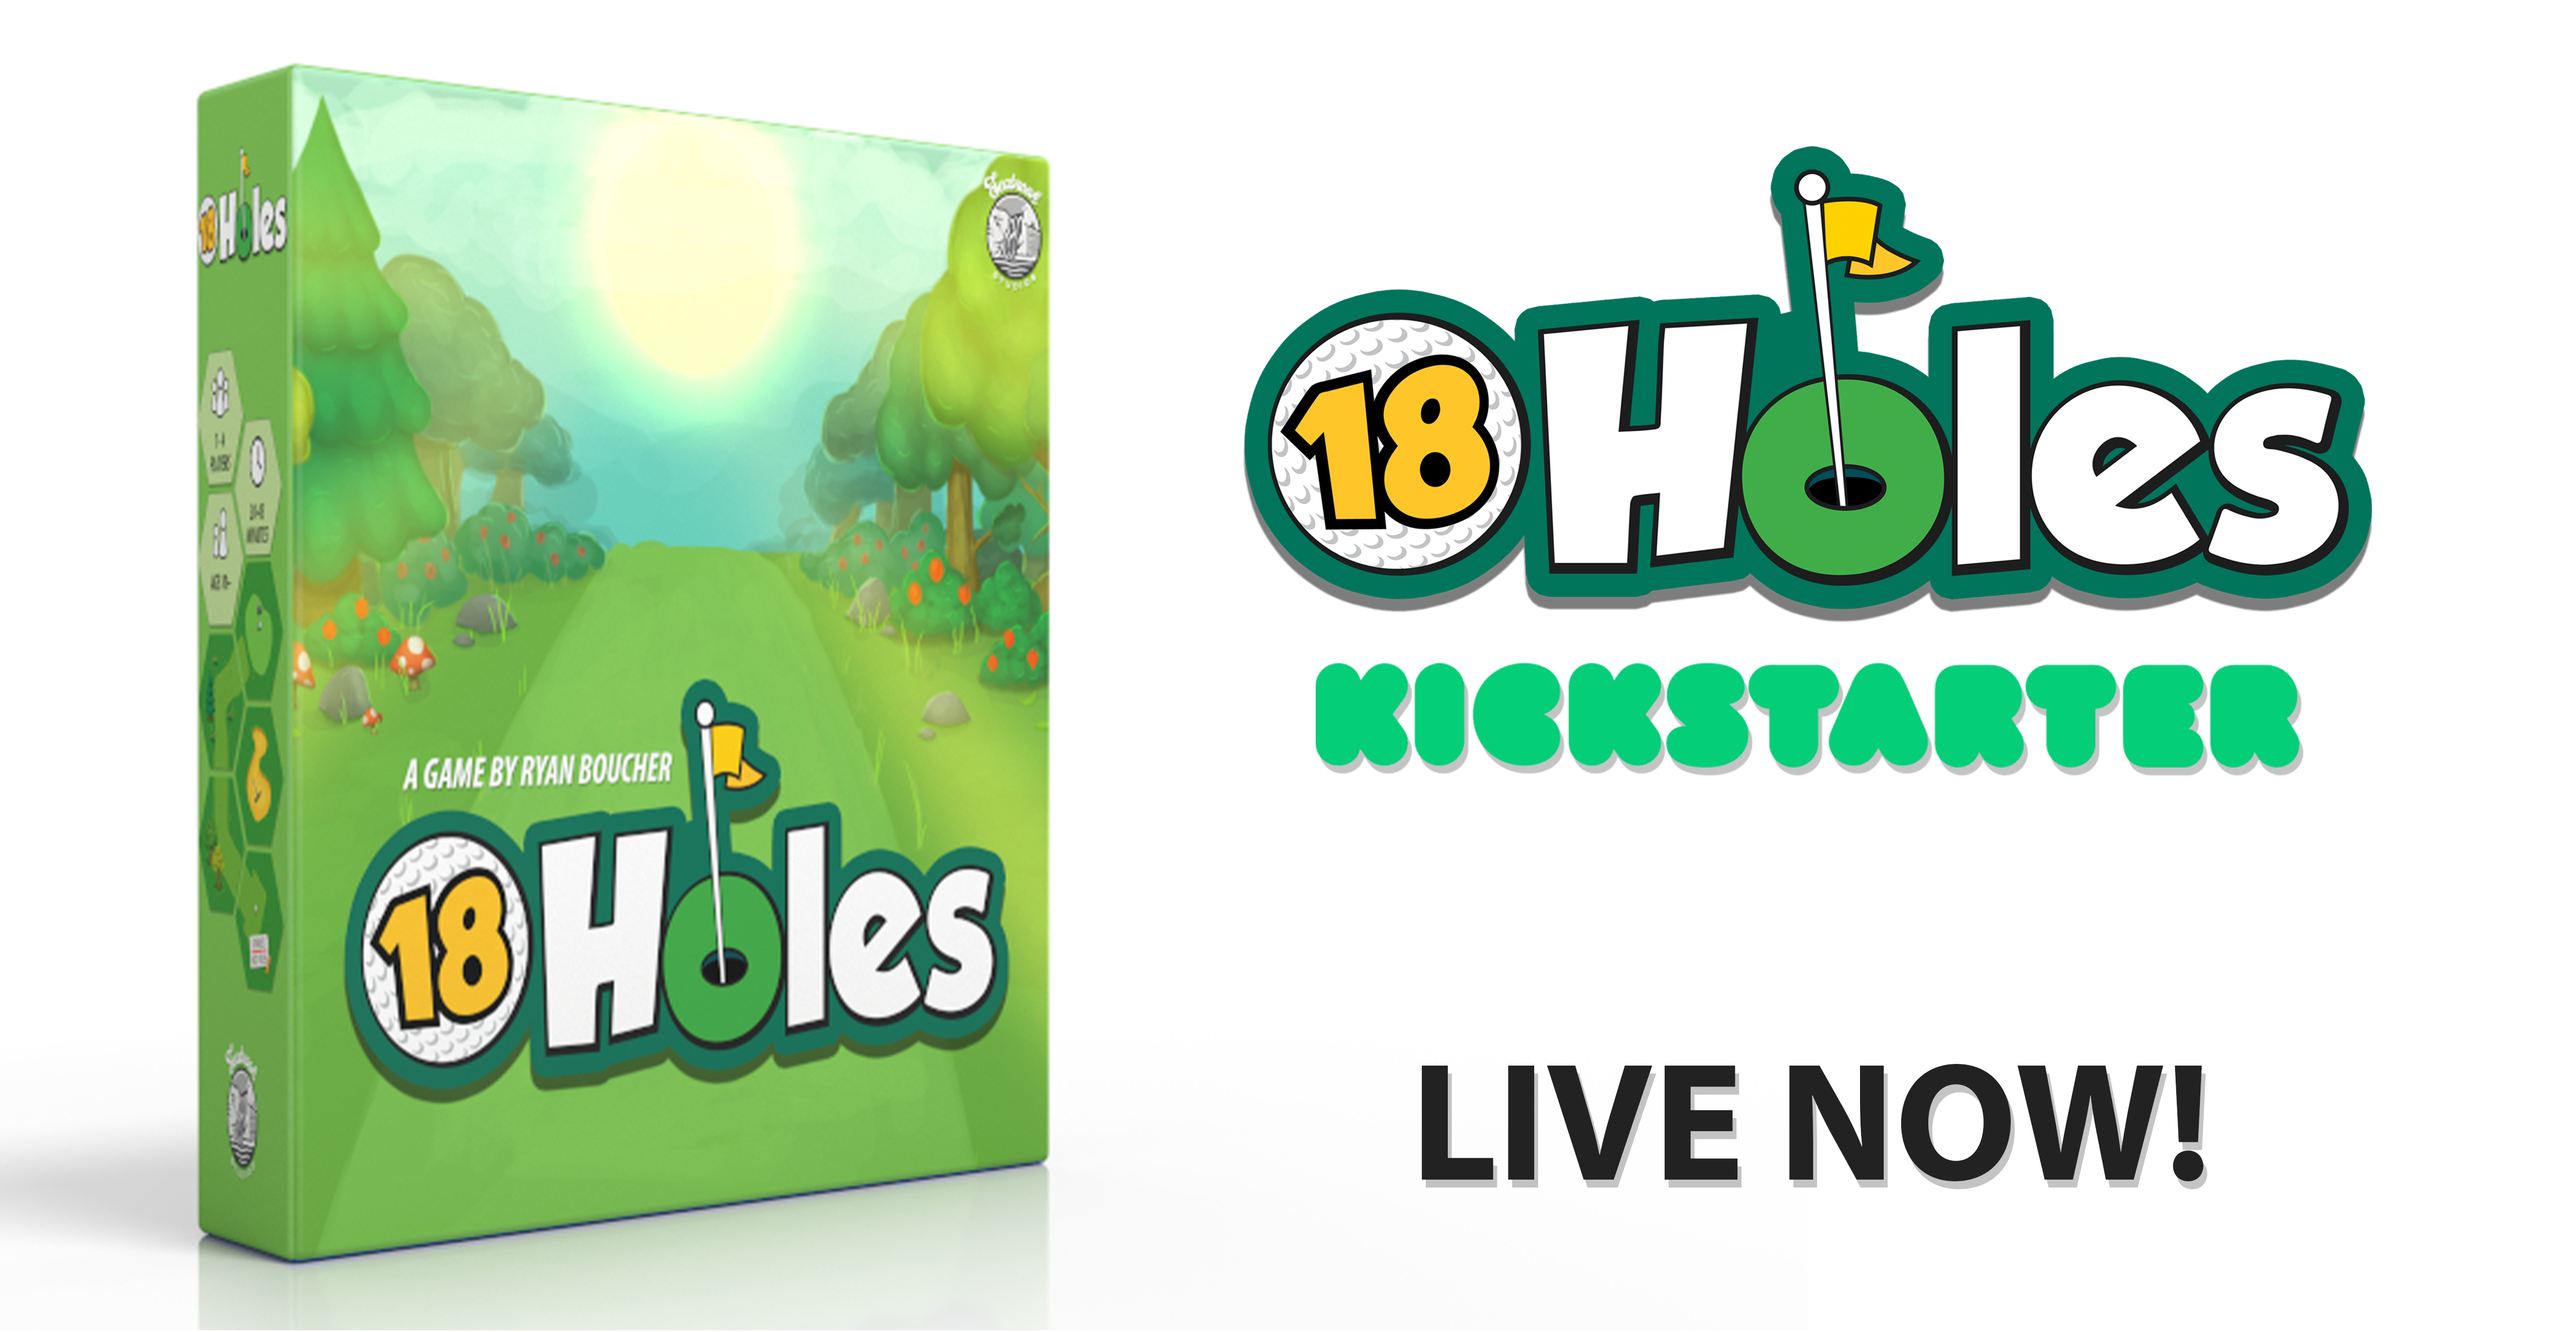
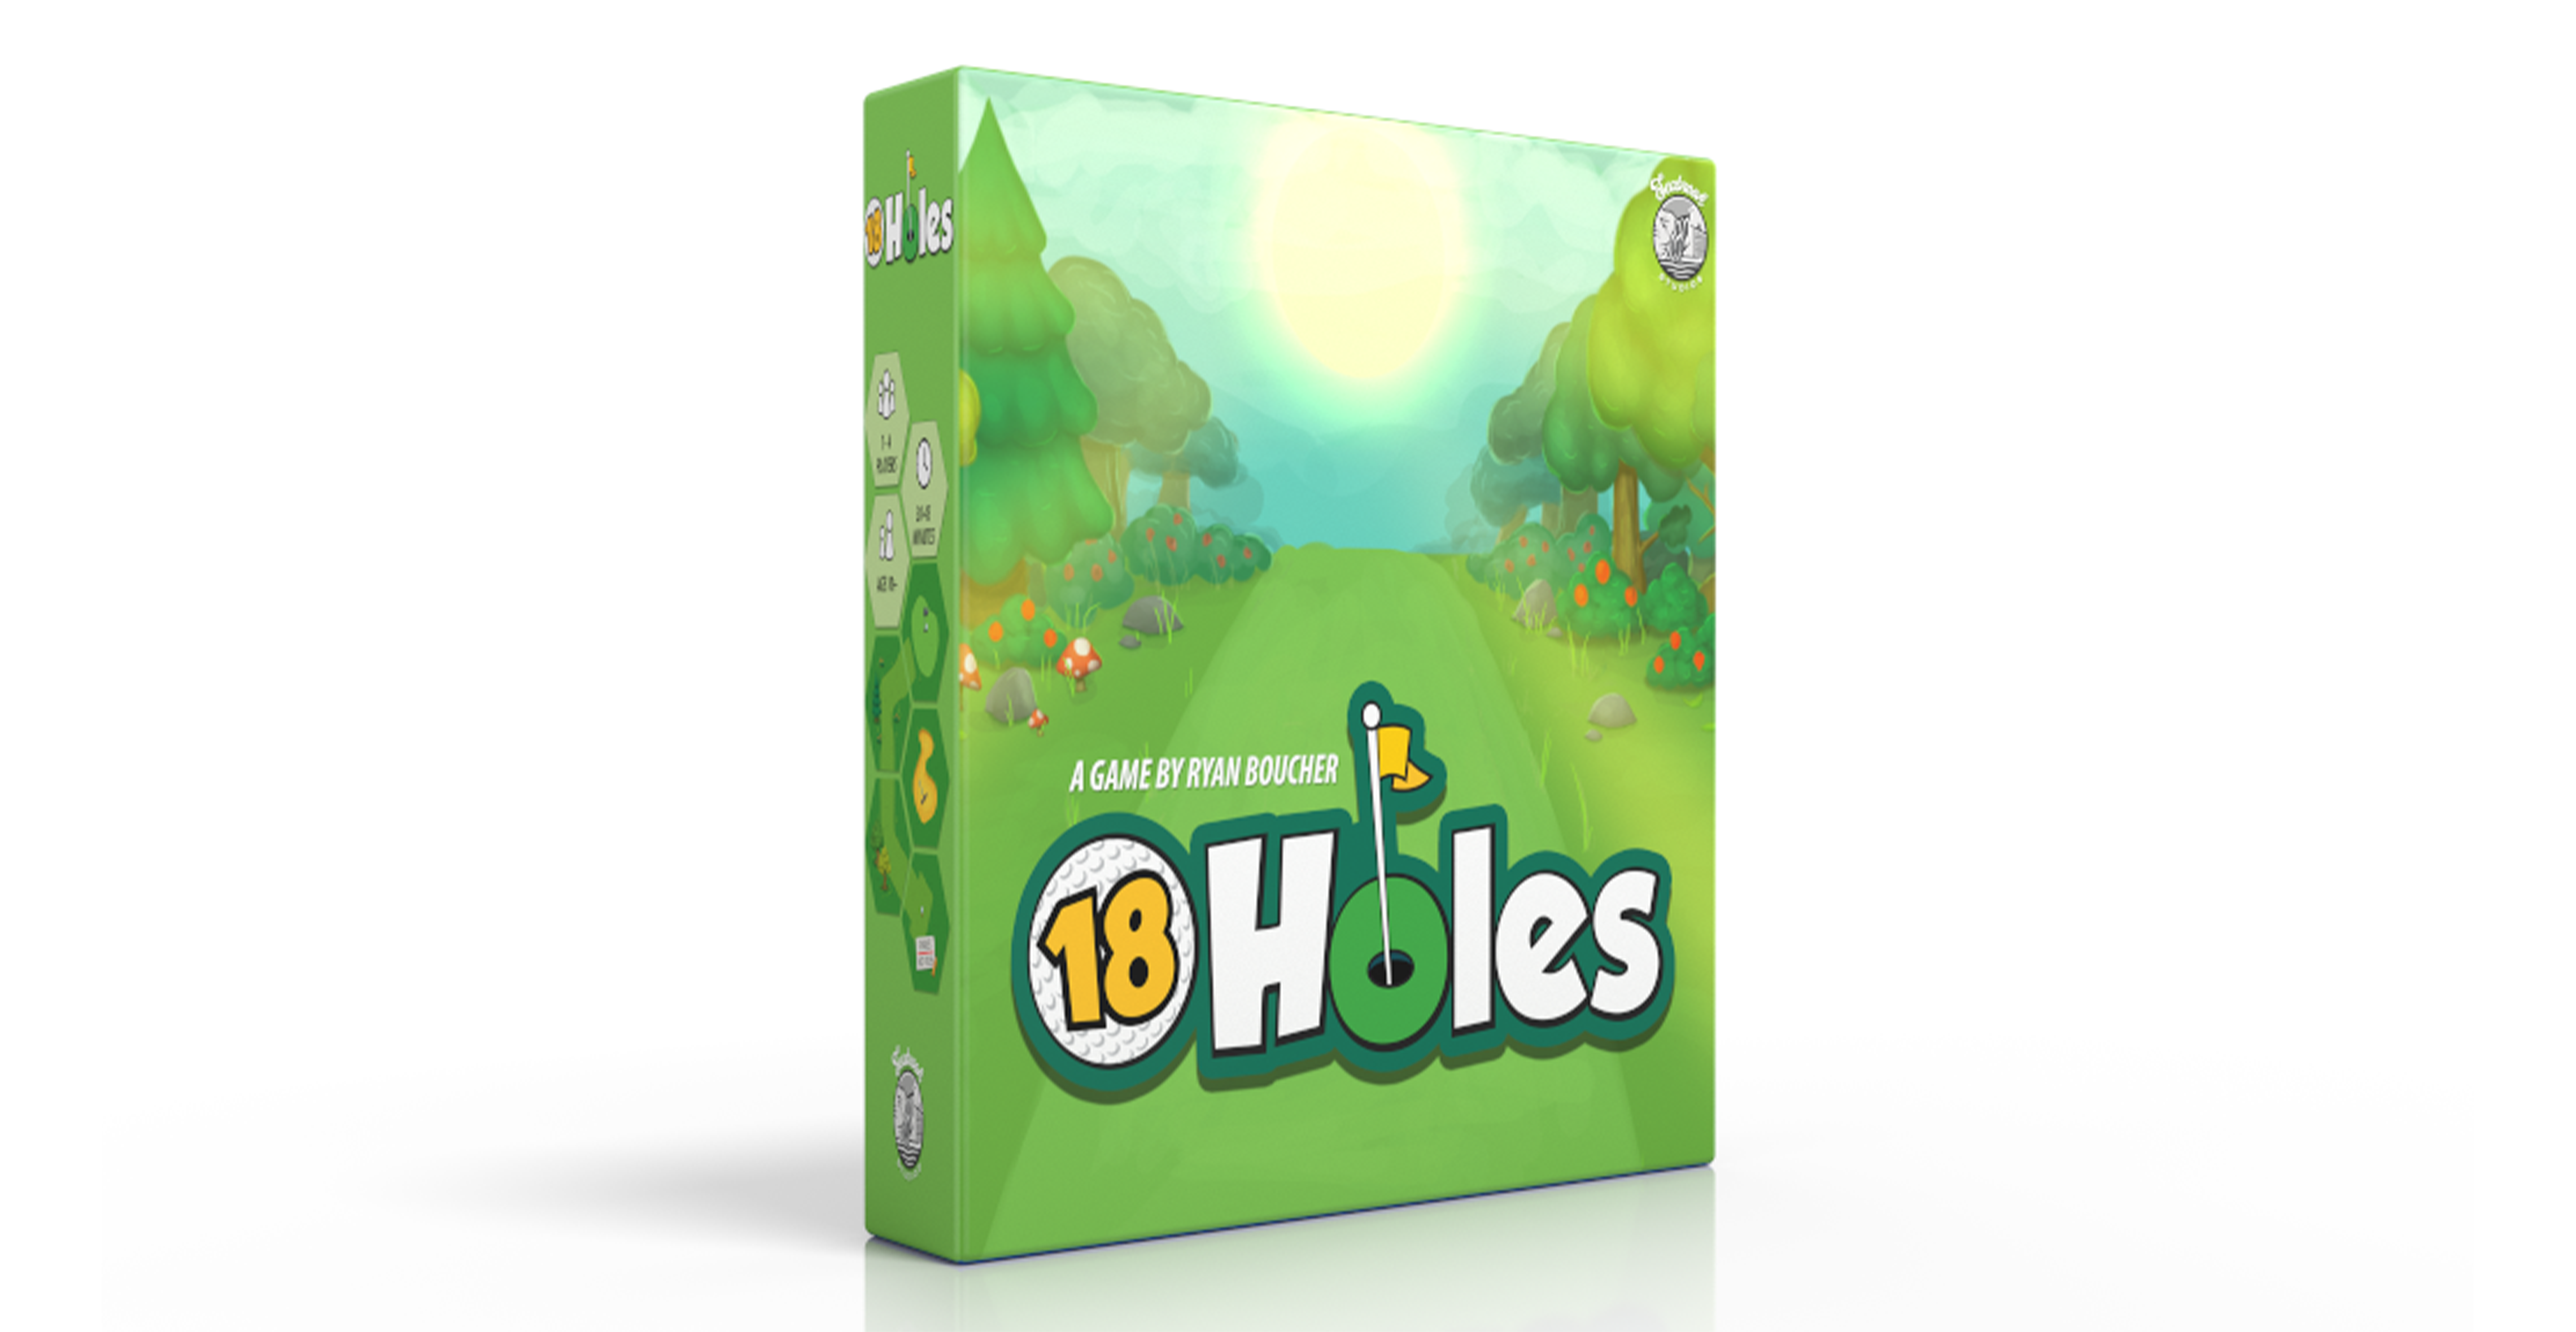
Remove Kickstarter from image / align images and contenet

diff --git a/src/components/gallery/item/item.js b/src/components/gallery/item/item.js
@@ -5,7 +5,11 @@ import { Title, Copy, Platforms, Url } from './item.css';
 
 const Item = ({ title, copy, image, url, platforms }) => (
   <figure>
-    <Img fluid={image ? image.childImageSharp.fluid : {}} alt={title} />
+    <Img
+      fluid={image ? image.childImageSharp.fluid : {}}
+      alt={title}
+      style={{ height: 250 }}
+    />
     <figcaption>
       <Title>{title}</Title>
       <Platforms>{platforms}</Platforms>

diff --git a/content/home/intro.md b/content/home/intro.md
@@ -1,1 +1,1 @@
-We are an independent games studio based in Melbourne, Australia. Our current focus is to making sports more accessible to people; not just those with great reaction skills. 
+We are an independent studio based in Melbourne, Australia. Our current focus is to making sports-themed games more accessible to people; not just those with great reaction skills. 
